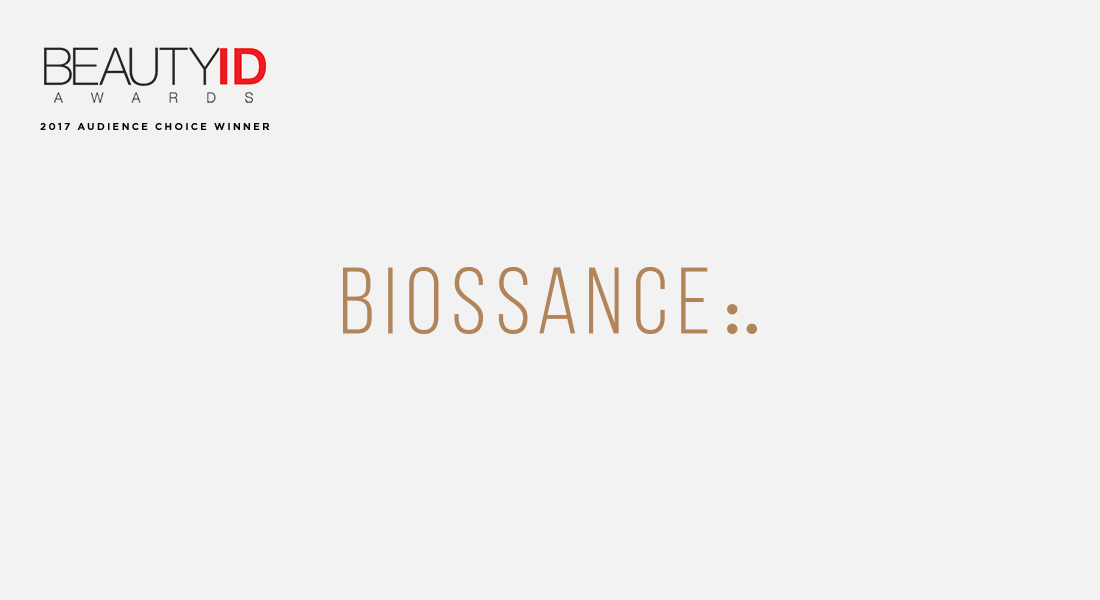
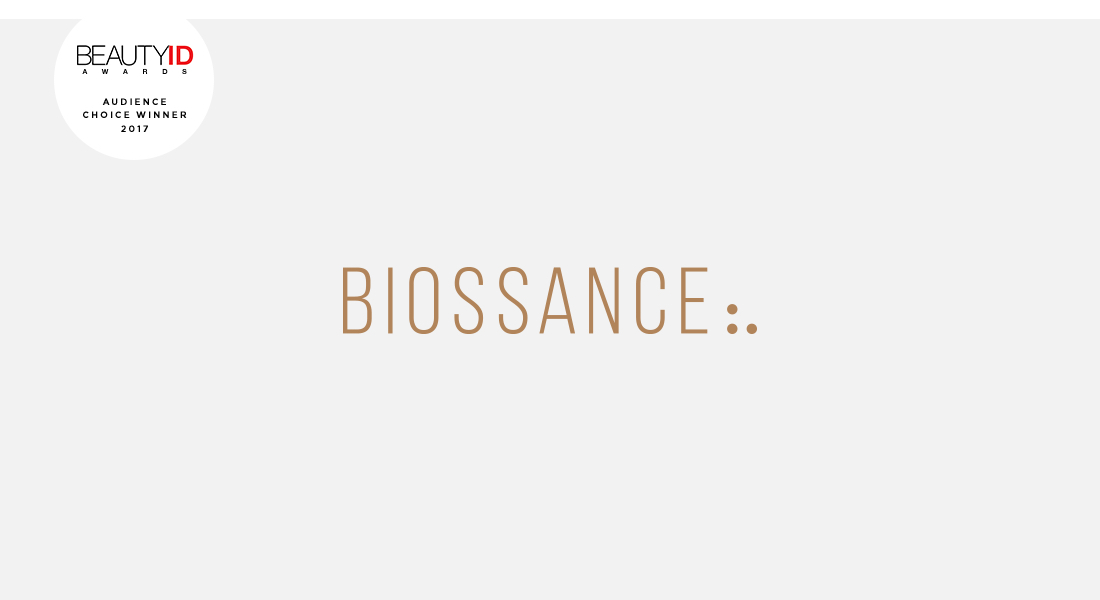
Added awards stickers to Biossance, Saucy and Colada and updated Biossance copy.

Changed region(s): [[0.0309, 0.06, 0.2473, 0.24], [0.2164, 0.21, 0.2473, 0.24]]

diff --git a/public_html/includes/site-data.php b/public_html/includes/site-data.php
@@ -252,10 +252,10 @@ $pages = array(
         'client'            => 'Biossance',
         'clientIsInHouse'   => false,
         'projectHtmlDesc'   => '<p>Biology by Nature. Human by Design.</p>
-                               <p>When Sephora gave Biossance the green light to rebrand, repackage, remarket and get to the shelf in 9 months, we ran with it—turning another average “nature meets science” brand into a standout concept that is differentiated, memorable and cool.</p>
-                               <p>Our strategy tapped into the power of simplicity. Using a single ingredient brand story, we introduced squalane oil to the millennial beauty customer in a way that she could instantly understand and relate to—no PhD required. A new tagline, fresh product names and an updated communication strategy married science and sustainably in a unique way.</p>
-							   <p>Biossance holds themselves to the highest standard of sustainability. Likewise, we didn’t compromise when designing sustainable packaging that’s green without the crunch and biotech-y without the boring. Keeping a premium product experience top of mind, we sourced recyclable primary components and eco-friendly outer cartons made from sugarcane. Waste? Not.</p>
-							   <p>Finally, we developed a comprehensive marketing and editorial plan for launch and post-launch. Biotech and Bartlett: bringing it in a big way.</p>',
+                               <p>Bartlett Brands took Biossance from an average “nature meets science” brand into a standout concept. Sephora called their launch “unprecedented.”</p>
+                               <p>Our strategy tapped into the power of simplicity. Using a single ingredient brand story, we introduced squalane oil to the millennial beauty customer in a way that she could instantly understand and remember.</p>
+							   <p>Biossance holds themselves to the highest standard of sustainability. Likewise, we didn’t compromise when designing chic packaging in highly recyclable primary components and eco-friendly outer cartons made from sugarcane. Waste? Not.</p>
+							   <p>An immediate disruptor, Biossance became one of the top skincare brands in Sephora after just a few weeks.</p>',
         'projectServices'   => 'Brand Strategy, Positioning, Identity, Package Design, Web Design, Fixture Design, In-Store Display, Collateral, Marketing Campaigns, Photography, Video, Email, Social Media, Brand Guidelines',
         'projectSiteName'   => 'biossance.com',
         'projectSiteUrl'    => 'https://www.biossance.com/',
